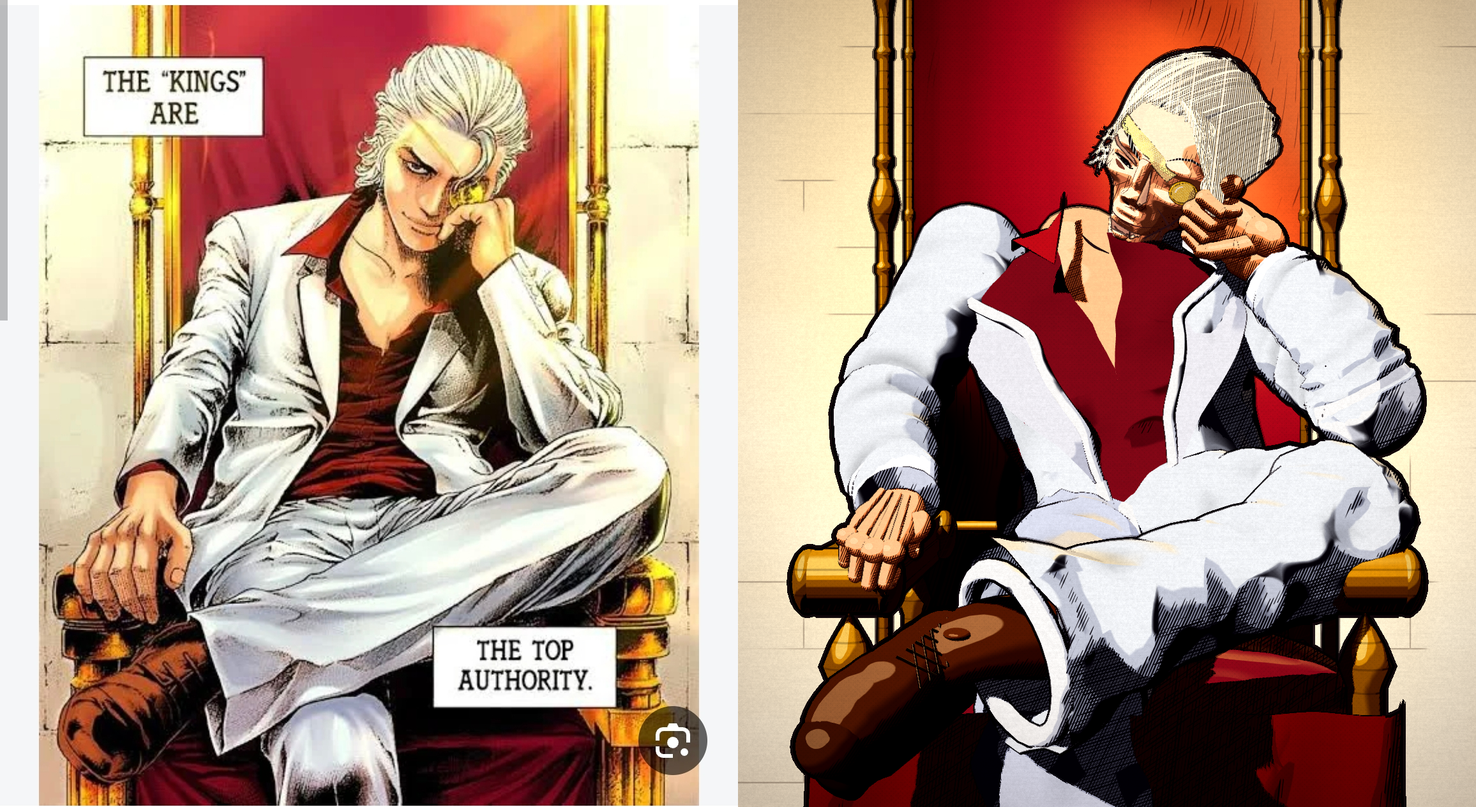
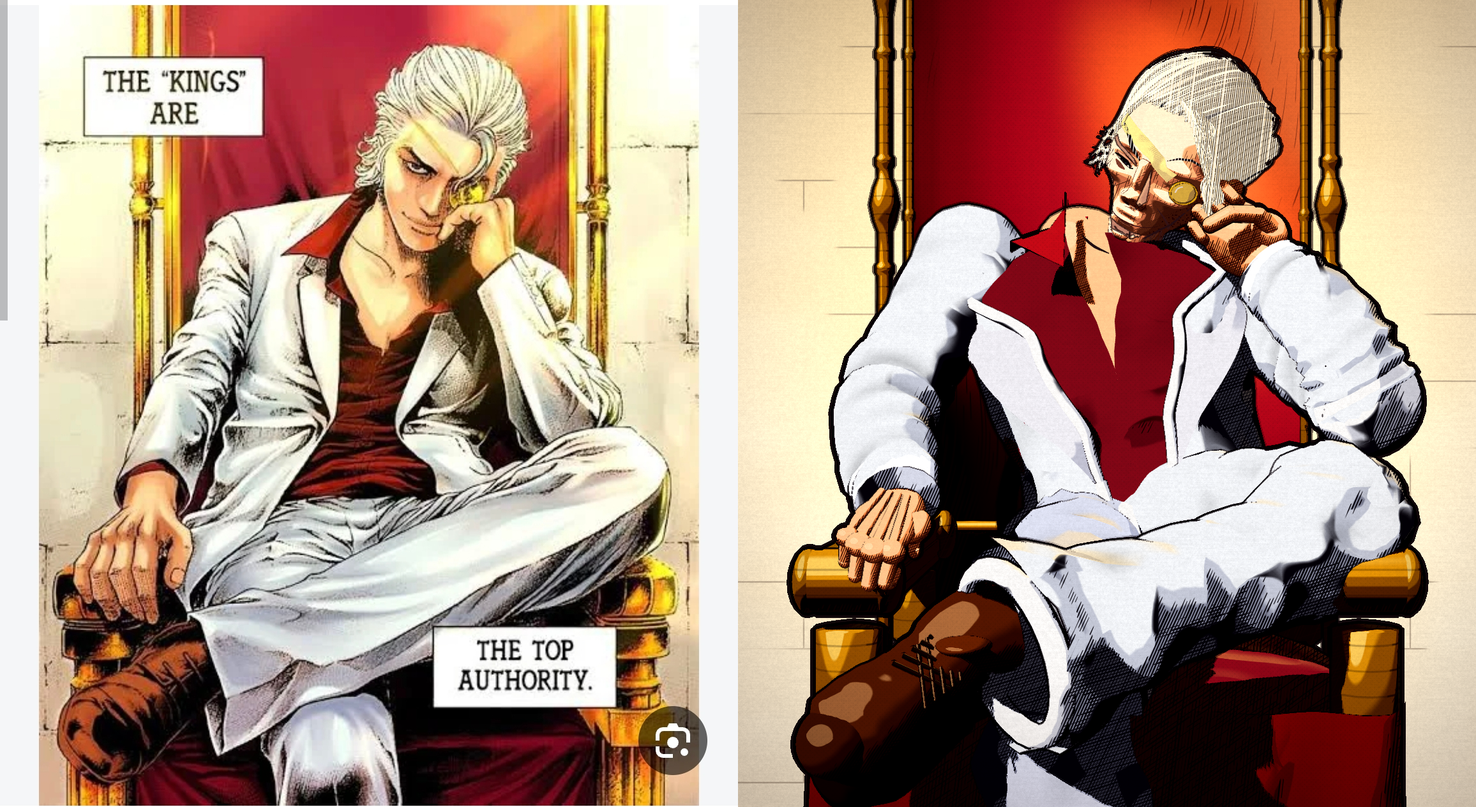
baku3d: round 5 style pass (opacity, shirt folds, skin shading)
Claude-Session: https://claude.ai/code/session_01JH6q5z1jEaKTaWuFe2UCrC

diff --git a/baku3d/src/body.js b/baku3d/src/body.js
@@ -165,7 +165,7 @@ export function buildBody(THREE, style) {
     return 1 + amp * (n * 1.2 + rg * 1.2 + acc * 1.3 + Math.sin(t * Math.PI * k + phi * 2 + seed) * 0.3);
   };
   const fistDir = V3(-0.62, 0.74, -0.2).normalize();
-  const FS = 1.42;
+  const FS = 1.38;
   const kn = cheek.clone().add(V3(0.02, 0.036, 0.03));
   const wristR = kn.clone().addScaledVector(fistDir, -0.1 * FS);
   const shoulderR = P(785, 470, -0.06), elbowR = P(985, 628, 0.17);
@@ -192,14 +192,14 @@ export function buildBody(THREE, style) {
 
     // propping fist: four knuckle bumps on the cheek side, thumb tucked under
     const hand = buildHand(THREE, U, skinM(), nailM(), {
-      side: -1, scale: FS, knuckle: 1.4, fingerLen: 0.82, gaps: true, lineMat: mat(0x8a5640, 'skin'),
+      side: -1, scale: FS, knuckle: 1.4, fingerLen: 0.7, gaps: true, lineMat: mat(0x8a5640, 'skin'),
       curl: [[1.5, 1.8, 1.2], [1.55, 1.85, 1.2], [1.55, 1.8, 1.15], [1.5, 1.7, 1.1]],
       spread: 0,
       // thumb folded across/under the index finger, on the palm side
       thumbPts: [[-0.034, 0.02, -0.004], [-0.037, 0.046, -0.03], [-0.02, 0.062, -0.052], [0.004, 0.068, -0.056]], thumbR: 0.0105,
     });
     hand.position.copy(wristR);
-    orient(hand, fistDir, V3(0.75, -0.1, -0.35));
+    orient(hand, fistDir, V3(0.2, 0.25, -0.95));
     g.add(hand);
   }
 
@@ -271,50 +271,55 @@ export function buildBody(THREE, style) {
     ell(0.07, P(540, 1700, 0.62), [1, 0.6, 1.8], mat(0x1a1210, 'leather'));
   }
 
-  // ================= BOOT: rounded dark-brown lace-up, toe down-left =================
+  // ================= BOOT: short chunky lace-up, toe cap down-left =================
   {
     const leather = mat(0x4a2410, 'leather');
     const leatherD = mat(0x120804, 'leather');
-    const heel = P(322, 1008, 0.5), mid = P(246, 1068, 0.55), ball = P(176, 1122, 0.58), toe = P(140, 1175, 0.6);
-    // shaft rising into the trouser hem
+    const heel = P(316, 1034, 0.5), mid = P(246, 1088, 0.55), ball = P(184, 1136, 0.58), toe = P(142, 1170, 0.6);
+    // ankle shaft: tall, disappears into the trouser hem
     add(loft({
-      pts: [P(485, 995, 0.5), P(405, 998, 0.52), P(335, 1018, 0.52)], rings: 10, sides: 18, ref: V3(0, 1, 0),
-      rx: prof([[0, 0.05], [1, 0.045]]), ry: prof([[0, 0.05], [1, 0.045]]), capEnd: 4,
+      pts: [P(420, 975, 0.5), P(360, 992, 0.52), P(322, 1030, 0.52)], rings: 8, sides: 18, ref: V3(0, 1, 0),
+      rx: prof([[0, 0.054], [1, 0.05]]), ry: prof([[0, 0.054], [1, 0.05]]), capEnd: 4, noise: legNoise(0.03, 4),
     }), leather);
+    // foot: tall at the instep, bulging toe box
     const footSpec = {
-      pts: [heel, mid, ball, toe], rings: 24, sides: 20, ref: V3(0.2, 0.2, 1),
-      rx: prof([[0, 0.04], [0.4, 0.044], [0.72, 0.046], [0.93, 0.04], [1, 0.03]]),
-      ry: prof([[0, 0.047], [0.4, 0.047], [0.72, 0.042], [0.93, 0.036], [1, 0.03]]),
-      capStart: 5, capEnd: 6, noise: legNoise(0.03, 8),
+      pts: [heel, mid, ball, toe], rings: 22, sides: 20, ref: V3(0.2, 0.2, 1),
+      rx: prof([[0, 0.045], [0.35, 0.046], [0.7, 0.054], [0.92, 0.052], [1, 0.034]]),
+      ry: prof([[0, 0.058], [0.35, 0.052], [0.7, 0.05], [0.92, 0.042], [1, 0.03]]),
+      capStart: 5, capEnd: 6, noise: legNoise(0.025, 8),
     };
     const footGeo = loft(footSpec);
     add(footGeo, leather);
-    // rounded toe cap
-    ell(0.04, toe.clone().lerp(ball, 0.18), [1.05, 0.95, 1.15], mat(0x3e1d0c, 'leather'));
-    // chunky sole along the underside
+    // toe cap (a darker rounded cap)
+    ell(0.046, toe.clone().lerp(ball, 0.25), [1.0, 0.92, 1.1], mat(0x3a1a0a, 'leather'));
+    // thick dark sole, wider than the upper, plus a heel block
     const soleSpec = {
-      pts: footSpec.pts.map((p) => p.clone().add(V3(0.008, -0.035, -0.01))), rings: 16, sides: 14, ref: V3(0.2, 0.2, 1),
-      rx: prof([[0, 0.044], [0.72, 0.049], [1, 0.032]]), ry: () => 0.014, capStart: 3, capEnd: 4,
+      pts: footSpec.pts.map((p) => p.clone().add(V3(0.006, -0.042, -0.01))), rings: 16, sides: 14, ref: V3(0.2, 0.2, 1),
+      rx: prof([[0, 0.052], [0.7, 0.06], [1, 0.04]]), ry: () => 0.02, capStart: 3, capEnd: 4,
     };
     add(loft(soleSpec), leatherD);
-    // thin crossed laces over the instep
+    const hb = new THREE.Mesh(new THREE.BoxGeometry(0.085, 0.045, 0.08), leatherD);
+    hb.position.copy(heel).add(V3(0.012, -0.05, -0.01));
+    hb.rotation.set(0.0, 0.5, 0.35);
+    g.add(hb);
+    // laces: five thin crossings over the instep + tongue
     const gc = footGeo._curve;
     for (let i = 0; i < 5; i++) {
-      const t = 0.08 + i * 0.07;
+      const t = 0.06 + i * 0.075;
       const f = U.frameAt(footSpec, gc, t);
       for (const sgn of [-1, 1]) {
-        const top = U.ringPoint(footSpec, gc, t, Math.PI / 2, 1.0, 0.002);
-        const bar = new THREE.Mesh(new THREE.CylinderGeometry(0.0017, 0.0017, 0.052, 5), leatherD);
+        const top = U.ringPoint(footSpec, gc, t, Math.PI / 2, 1.0, 0.003);
+        const bar = new THREE.Mesh(new THREE.CylinderGeometry(0.0028, 0.0028, 0.075, 5), mat(0x1c0e06, 'leather'));
         bar.position.copy(top);
         orient(bar, f.B, f.N);
-        bar.rotateZ(sgn * 0.5);
+        bar.rotateZ(sgn * 0.55);
         g.add(bar);
       }
     }
-    ell(0.016, U.ringPoint(footSpec, gc, 0.03, Math.PI / 2, 1.0, 0.01), [1.2, 0.5, 1.7], mat(0x5a2e14, 'leather'));
-    // trouser cuff: ring at the hem so the opening reads, with a dark interior
+    ell(0.026, U.ringPoint(footSpec, gc, 0.02, Math.PI / 2, 1.0, 0.014), [1.3, 0.5, 1.9], mat(0x5a2e14, 'leather'));
+    // trouser cuff ring pooled over the boot top
     const tan = hemA.clone().sub(P(540, 982, 0.53)).normalize();
-    const cuffRing = new THREE.Mesh(new THREE.TorusGeometry(0.108, 0.013, 8, 28), trouserVM2());
+    const cuffRing = new THREE.Mesh(new THREE.TorusGeometry(0.108, 0.015, 8, 28), mat(0xf0eeea, 'suit'));
     cuffRing.position.copy(hemA);
     cuffRing.quaternion.setFromUnitVectors(V3(0, 0, 1), tan);
     cuffRing.scale.set(1, 0.92, 1);

diff --git a/baku3d/src/style.js b/baku3d/src/style.js
@@ -101,10 +101,6 @@ float strokes(vec2 p, float ang, float pitch, float cov){
 }
 
 void main(){
-  if (uOpacity < 0.999) {
-    float th = fract(52.9829189 * fract(dot(gl_FragCoord.xy, vec2(0.06711056, 0.00583715))));
-    if (th > uOpacity) discard;
-  }
   vec3 N = normalize(vNv);
   if (uFlat > 0.5) N = normalize(cross(dFdx(vVp), dFdy(vVp)));
   else if (!gl_FrontFacing) N = -N;
@@ -182,7 +178,7 @@ void main(){
   vec2 p = gl_FragCoord.xy / uScale;
   float ink = 0.0;
   float c1 = smoothstep(uHatchT + 0.14, uHatchT - 0.10, s) * uHatch * 1.0 + uStrand * smoothstep(0.5, -0.2, s);
-  float c2 = smoothstep(uHatchT - 0.12, uHatchT - 0.40, s) * uHatch * 1.0;
+  float c2 = smoothstep(uHatchT - 0.12, uHatchT - 0.40, s) * uHatch * (1.0 - uStraight);
   float c3 = smoothstep(-0.60, -0.9, s) * uHatch;
   ink = max(ink, strokes(p, uAngle, uPitch, c1));
   ink = max(ink, strokes(p, uAngle - 0.85, uPitch * 1.12, c2));
@@ -204,8 +200,9 @@ void main(){
   }
   col = mix(col, uInk, ink);
 
-  oCol = vec4(col, 1.0);
-  oNorm = vec4(uStraight > 0.5 ? vec3(0.5, 0.5, 1.0) : N * 0.5 + 0.5, -vVp.z * 0.1);
+  oCol = vec4(col, uOpacity);
+  // translucent surfaces leave the normal/depth buffer untouched (alpha 0 under normal blending)
+  oNorm = vec4(uStraight > 0.5 ? vec3(0.5, 0.5, 1.0) : N * 0.5 + 0.5, uOpacity < 0.999 ? 0.0 : -vVp.z * 0.1);
 }`;
 
 export function toon(hex = 0xffffff, opts = {}) {
@@ -236,8 +233,7 @@ export function toon(hex = 0xffffff, opts = {}) {
   });
   mat.color = color;
   if (opts.opacity !== undefined && opts.opacity < 1 || opts.transparent) {
-    // screen-door (halftone) transparency: no blending, so the MRT normal/depth buffers stay valid
-    mat.transparent = true; mat.opacity = opts.opacity ?? 1; mat.depthWrite = false; mat.blending = THREE.NoBlending;
+    mat.transparent = true; mat.opacity = opts.opacity ?? 1; mat.depthWrite = false;
   }
   mat.userData.role = role;
   mat.userData.inkWidth = opts.outline === false ? 0 : (typeof opts.outline === 'number' ? opts.outline : r.outline);

diff --git a/baku3d/src/bodyA_throne.js b/baku3d/src/bodyA_throne.js
@@ -112,8 +112,11 @@ export function buildThrone(THREE, style, util) {
       M(new THREE.SphereGeometry(0.044, 14, 10), goldDark(), x - s * 0.052, 0.615, z).scale.set(0.5, 1, 1);
     }
     // turned front/back support posts
-    M(new THREE.LatheGeometry(postProfile(0.57, 0.024, [{ y: 0.3, R: 0.044 }], 0.15), 14), gold(), x, 0.0, 0.32);
-    M(new THREE.LatheGeometry(postProfile(0.57, 0.02, [{ y: 0.3, R: 0.036 }], 0.15), 12), goldDark(), x, 0.0, -0.32);
+    // stacked carved bases (no teardrop finials)
+    const base = (r) => [V2(0.001, 0), V2(r * 1.8, 0), V2(r * 1.8, 0.04), V2(r, 0.07), V2(r, 0.16), V2(r * 1.5, 0.17), V2(r * 1.5, 0.2), V2(r, 0.21), V2(r, 0.3),
+      V2(r * 1.7, 0.31), V2(r * 1.7, 0.34), V2(r * 1.2, 0.35), V2(r * 1.2, 0.42), V2(r * 1.9, 0.43), V2(r * 1.9, 0.55), V2(0.001, 0.55)];
+    M(new THREE.LatheGeometry(base(0.024), 14), gold(), x, 0.0, 0.32);
+    M(new THREE.LatheGeometry(base(0.02), 12), goldDark(), x, 0.0, -0.32);
   }
 
   // ---- cream brick wall ----
